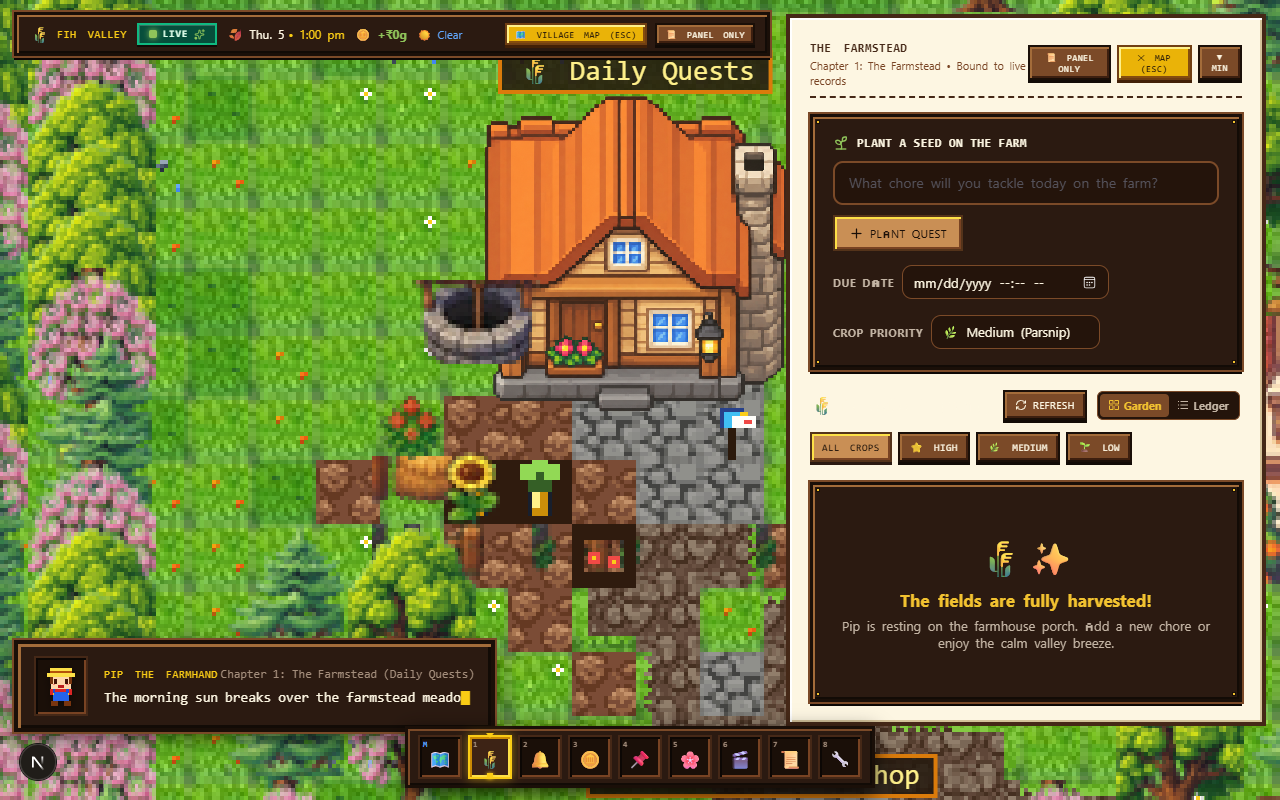
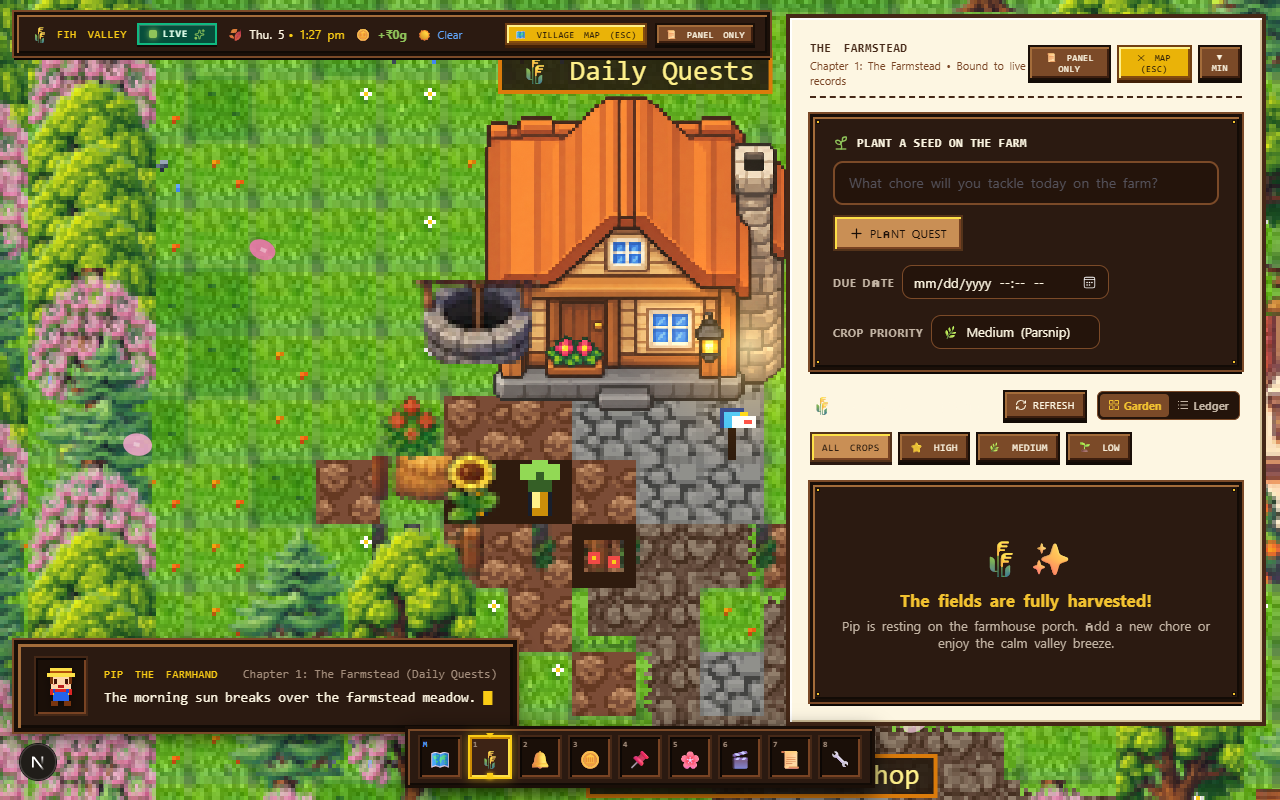
feat(world): add water ripples, caustics, lily pads, fireflies, lantern glow, and falling petals

diff --git a/components/world/PixelWorldCanvas.jsx b/components/world/PixelWorldCanvas.jsx
@@ -779,6 +779,10 @@ export default function PixelWorldCanvas({
       stone_well: null,
       farm_cart: null,
       haystack: null,
+      lilypad: null,
+      lilypad_flower: null,
+      cattails: null,
+      water_caustics: null,
     },
     loaded: false,
     camera: { x: 32 * 16, y: 33 * 16 }, // Center at Central Plaza Fountain on spawn
@@ -796,6 +800,50 @@ export default function PixelWorldCanvas({
     bellSwing: 0,
     fountainFrame: 0,
     isOverworldMode: !activeTab || activeTab === 'map',
+    fireflies: Array.from({ length: 24 }, (_, i) => {
+      let bx = 32 * 16, by = 42 * 16;
+      if (i < 8) {
+        // Archive Cellar ancient grove (tx: 8..16, ty: 29..36)
+        bx = (9 + (i % 4) * 2) * 16 + (Math.random() - 0.5) * 16;
+        by = (30 + Math.floor(i / 4) * 3) * 16 + (Math.random() - 0.5) * 16;
+      } else if (i < 16) {
+        // Woodland Pond & Reeds (tx: 28..36, ty: 39..45)
+        bx = (29 + (i % 4) * 2) * 16 + (Math.random() - 0.5) * 16;
+        by = (40 + Math.floor((i - 8) / 4) * 2) * 16 + (Math.random() - 0.5) * 16;
+      } else if (i < 20) {
+        // Bell Tower grove (tx: 29..35, ty: 8..14)
+        bx = (29 + (i - 16) * 2) * 16 + (Math.random() - 0.5) * 16;
+        by = (9 + ((i - 16) % 2) * 3) * 16 + (Math.random() - 0.5) * 16;
+      } else {
+        // Cinema Forest (tx: 44..52, ty: 45..52)
+        bx = (45 + (i - 20) * 2) * 16 + (Math.random() - 0.5) * 16;
+        by = (46 + ((i - 20) % 2) * 3) * 16 + (Math.random() - 0.5) * 16;
+      }
+      return {
+        x: bx,
+        y: by,
+        baseX: bx,
+        baseY: by,
+        phase: Math.random() * Math.PI * 2,
+        pulsePhase: Math.random() * Math.PI * 2,
+      };
+    }),
+    petals: Array.from({ length: 32 }, (_, i) => {
+      const colors = ['#fbcfe8', '#f472b6', '#fda4af', '#f9a8d4', '#fef08a'];
+      return {
+        x: Math.random() * (64 * 16),
+        y: Math.random() * (64 * 16),
+        speedX: Math.random() * 0.5 + 0.5,
+        speedY: Math.random() * 0.6 + 0.6,
+        swayPhase: Math.random() * Math.PI * 2,
+        angle: Math.random() * Math.PI * 2,
+        rotSpeed: (Math.random() - 0.5) * 0.06,
+        color: colors[i % colors.length],
+        rx: Math.random() * 1.5 + 3.2,
+        ry: Math.random() * 1 + 1.8,
+        alpha: Math.random() * 0.25 + 0.65,
+      };
+    }),
   });
 
   // 1. Load 16-bit sprite sheets
@@ -846,6 +894,10 @@ export default function PixelWorldCanvas({
       { key: 'stone_well', src: '/assets/props/stone_well.png' },
       { key: 'farm_cart', src: '/assets/props/farm_cart.png' },
       { key: 'haystack', src: '/assets/props/haystack.png' },
+      { key: 'lilypad', src: '/assets/props/lilypad.png' },
+      { key: 'lilypad_flower', src: '/assets/props/lilypad_flower.png' },
+      { key: 'cattails', src: '/assets/props/cattails.png' },
+      { key: 'water_caustics', src: '/assets/props/water_caustics.png' },
     ];
 
     let count = 0;
@@ -1051,10 +1103,10 @@ export default function PixelWorldCanvas({
       lastTime = currentTime;
       tickCounter++;
 
-      // Cycle animation frames (~10fps for sprite walk & water shimmer)
+      // Cycle animation frames (~10fps for sprite walk & water caustics shimmer)
       if (tickCounter % 6 === 0) {
         state.animFrame++;
-        state.waterFrame = (state.waterFrame + 1) % 2;
+        state.waterFrame = (state.waterFrame + 1) % 4;
         state.fountainFrame = (state.fountainFrame + 1) % 2;
         state.bellSwing = Math.sin(state.animFrame * 0.4) * 0.15;
 
@@ -1205,6 +1257,11 @@ export default function PixelWorldCanvas({
       const offsetY = Math.floor(viewH / 2 - cam.y);
       ctx.translate(offsetX, offsetY);
 
+      const camMinX = cam.x - viewW / 2 - 64;
+      const camMaxX = cam.x + viewW / 2 + 64;
+      const camMinY = cam.y - viewH / 2 - 64;
+      const camMaxY = cam.y + viewH / 2 + 64;
+
       const tileset = state.images.tileset;
 
       // ── Layer 1: Ground Tiles (Grass, Continuous Dirt Paths, Cobblestone Aprons, Pond, Tilled Soil) ──
@@ -1221,7 +1278,12 @@ export default function PixelWorldCanvas({
           // Woodland Pond (tx: 30..34, ty: 40..43, excluding footbridge at tx: 32)
           const isPondWater = tx >= 30 && tx <= 34 && ty >= 40 && ty <= 43 && tx !== 32;
           if (isPondWater) {
-            ctx.drawImage(tileset, state.waterFrame * TILE_SIZE, 1 * TILE_SIZE, TILE_SIZE, TILE_SIZE, wx, wy, TILE_SIZE, TILE_SIZE);
+            const causticsImg = state.images.water_caustics;
+            if (causticsImg) {
+              ctx.drawImage(causticsImg, (state.waterFrame % 4) * TILE_SIZE, 0, TILE_SIZE, TILE_SIZE, wx, wy, TILE_SIZE, TILE_SIZE);
+            } else {
+              ctx.drawImage(tileset, (state.waterFrame % 2) * TILE_SIZE, 1 * TILE_SIZE, TILE_SIZE, TILE_SIZE, wx, wy, TILE_SIZE, TILE_SIZE);
+            }
             continue;
           }
 
@@ -1244,6 +1306,29 @@ export default function PixelWorldCanvas({
           ctx.drawImage(tileset, gTile.col * TILE_SIZE, gTile.row * TILE_SIZE, TILE_SIZE, TILE_SIZE, wx, wy, TILE_SIZE, TILE_SIZE);
         }
       }
+
+      // ── Layer 1b: Dynamic Concentric Water Ripples ──
+      const rippleCenters = [
+        { x: 30.8 * TILE_SIZE, y: 41.3 * TILE_SIZE, phase: 0 },
+        { x: 33.4 * TILE_SIZE, y: 42.1 * TILE_SIZE, phase: 0.3 },
+        { x: 31.4 * TILE_SIZE, y: 42.8 * TILE_SIZE, phase: 0.6 },
+        { x: 33.6 * TILE_SIZE, y: 40.7 * TILE_SIZE, phase: 0.85 },
+        { x: 32.0 * TILE_SIZE, y: 31.2 * TILE_SIZE, phase: 0.45 }, // Central fountain basin
+      ];
+      rippleCenters.forEach((rc) => {
+        if (viewW < 1000 && (rc.x < camMinX || rc.x > camMaxX || rc.y < camMinY || rc.y > camMaxY)) return;
+        const progress = ((state.animFrame * 0.025 + rc.phase) % 1);
+        const rX = 2 + progress * 8;
+        const rY = rX * 0.5;
+        const alpha = (1 - progress) * 0.6;
+        ctx.save();
+        ctx.strokeStyle = `rgba(186, 245, 255, ${alpha.toFixed(3)})`;
+        ctx.lineWidth = 1;
+        ctx.beginPath();
+        ctx.ellipse(rc.x, rc.y, rX, rY, 0, 0, Math.PI * 2);
+        ctx.stroke();
+        ctx.restore();
+      });
 
       // ── Layer 2: Decorative Fences, Rails & Wooden Footbridge ──
       // 1. Upgraded Wooden Footbridge across Woodland Pond (tx: 31..33, ty: 40..43)
@@ -1298,11 +1383,6 @@ export default function PixelWorldCanvas({
 
       // ── Layer 3: Depth-Sorted Entities (Buildings, Props, Characters, Trees) ──
       const renderables = [];
-
-      const camMinX = cam.x - viewW / 2 - 64;
-      const camMaxX = cam.x + viewW / 2 + 64;
-      const camMinY = cam.y - viewH / 2 - 64;
-      const camMaxY = cam.y + viewH / 2 + 64;
 
       // ── 1. Chapter 1: The Farmstead (New Custom House) ──
       renderables.push({
@@ -1625,6 +1705,44 @@ export default function PixelWorldCanvas({
         },
       });
 
+      // ── Floating Bobbing Lily Pads on Woodland Pond ──
+      const lilyPads = [
+        { x: 30.6 * TILE_SIZE, y: 41.2 * TILE_SIZE, type: 'plain', phase: 0 },
+        { x: 33.3 * TILE_SIZE, y: 42.2 * TILE_SIZE, type: 'flower', phase: 1.8 },
+        { x: 31.2 * TILE_SIZE, y: 42.7 * TILE_SIZE, type: 'plain', phase: 3.2 },
+      ];
+      lilyPads.forEach((lp) => {
+        if (viewW < 1000 && (lp.x < camMinX || lp.x > camMaxX || lp.y < camMinY || lp.y > camMaxY)) return;
+        renderables.push({
+          y: lp.y + 12,
+          render: () => {
+            const bobY = lp.y + Math.sin(state.animFrame * 0.08 + lp.phase) * 1.5;
+            const img = lp.type === 'flower' ? state.images.lilypad_flower : state.images.lilypad;
+            if (img) {
+              ctx.drawImage(img, lp.x, bobY, 18, 18);
+            }
+          },
+        });
+      });
+
+      // ── Shoreline Cattails / Water Reeds ──
+      const waterReeds = [
+        { x: 29.5 * TILE_SIZE, y: 42.0 * TILE_SIZE },
+        { x: 34.2 * TILE_SIZE, y: 40.2 * TILE_SIZE },
+      ];
+      waterReeds.forEach((wr) => {
+        if (viewW < 1000 && (wr.x < camMinX || wr.x > camMaxX || wr.y < camMinY || wr.y > camMaxY)) return;
+        renderables.push({
+          y: wr.y + 24,
+          render: () => {
+            const img = state.images.cattails;
+            if (img) {
+              ctx.drawImage(img, wr.x, wr.y, 20, 28);
+            }
+          },
+        });
+      });
+
       // ── 11a. Central Plaza & Landmark Wooden Benches ──
       const plazaBenches = [
         // Central Plaza fountain benches
@@ -1650,8 +1768,6 @@ export default function PixelWorldCanvas({
 
       // ── 11b. Rustic Woodland Log Benches ──
       const logBenches = [
-        // Scenic Woodland Pond Overlook
-        { x: 29, y: 41 }, { x: 35, y: 41 },
         // Northern Forest Trail Rest
         { x: 24, y: 20 }, { x: 40, y: 20 },
       ];
@@ -1660,7 +1776,7 @@ export default function PixelWorldCanvas({
         renderables.push({
           y: (lb.y + 1) * TILE_SIZE,
           render: () => {
-            const lbImg = state.images.bench_log || state.images.bench_wood;
+            const lbImg = state.images.bench_wood;
             if (lbImg) {
               ctx.drawImage(lbImg, lb.x * TILE_SIZE - 5, lb.y * TILE_SIZE, 26, 14);
             }
@@ -1930,7 +2046,101 @@ export default function PixelWorldCanvas({
       renderables.sort((a, b) => a.y - b.y);
       renderables.forEach((item) => item.render());
 
-      // ── Layer 4: Floating Building Signposts & Hover Highlights ──
+      // ── Layer 4a: Ambient Lantern Radial Halos & Flame Flicker ──
+      ctx.save();
+      ctx.globalCompositeOperation = 'lighter';
+      const allLanternLights = [
+        // Street Timber Bracket Post Lanterns
+        ...streetLanterns.map((l) => ({ x: l.x * TILE_SIZE + 13, y: l.y * TILE_SIZE + 2, radius: 34 })),
+        // Portable Oil Lanterns
+        ...oilLanterns.map((l) => ({ x: l.x * TILE_SIZE + 7, y: l.y * TILE_SIZE + 6, radius: 24 })),
+        // Porch & Doorway Lanterns
+        { x: 14 * TILE_SIZE + 28, y: 13 * TILE_SIZE + 4, radius: 30 }, // Farmhouse porch
+        { x: 50 * TILE_SIZE + 18, y: 12 * TILE_SIZE + 10, radius: 32 }, // Bank door
+      ];
+
+      allLanternLights.forEach((ll, lIdx) => {
+        if (viewW < 1000 && (ll.x < camMinX - 32 || ll.x > camMaxX + 32 || ll.y < camMinY - 32 || ll.y > camMaxY + 32)) return;
+        const flicker = Math.sin(state.animFrame * 0.2 + lIdx * 2.1) * 0.08 + Math.cos(state.animFrame * 0.35 + lIdx * 1.3) * 0.04;
+        const r = ll.radius * (1 + flicker);
+        const grad = ctx.createRadialGradient(ll.x, ll.y, 1, ll.x, ll.y, r);
+        grad.addColorStop(0, `rgba(254, 240, 138, ${(0.40 + flicker * 0.22).toFixed(3)})`);
+        grad.addColorStop(0.35, `rgba(245, 158, 11, 0.15)`);
+        grad.addColorStop(0.7, `rgba(217, 119, 6, 0.05)`);
+        grad.addColorStop(1, 'rgba(180, 83, 9, 0)');
+
+        ctx.fillStyle = grad;
+        ctx.beginPath();
+        ctx.arc(ll.x, ll.y, r, 0, Math.PI * 2);
+        ctx.fill();
+      });
+      ctx.restore();
+
+      // ── Layer 4b: Bioluminescent Woodland Fireflies ──
+      state.fireflies.forEach((f) => {
+        f.x = f.baseX + Math.sin(f.phase + state.animFrame * 0.05) * 14;
+        f.y = f.baseY + Math.cos(f.phase * 1.4 + state.animFrame * 0.04) * 10;
+        if (viewW < 1000 && (f.x < camMinX || f.x > camMaxX || f.y < camMinY || f.y > camMaxY)) return;
+
+        const pulse = (Math.sin(state.animFrame * 0.12 + f.pulsePhase) + 1) / 2;
+        const alpha = 0.25 + pulse * 0.65;
+
+        ctx.save();
+        const grad = ctx.createRadialGradient(f.x, f.y, 0.5, f.x, f.y, 6);
+        grad.addColorStop(0, `rgba(254, 240, 138, ${alpha.toFixed(3)})`);
+        grad.addColorStop(0.4, `rgba(134, 239, 172, ${(alpha * 0.6).toFixed(3)})`);
+        grad.addColorStop(1, 'rgba(134, 239, 172, 0)');
+        ctx.fillStyle = grad;
+        ctx.beginPath();
+        ctx.arc(f.x, f.y, 6, 0, Math.PI * 2);
+        ctx.fill();
+
+        ctx.fillStyle = '#fef08a';
+        ctx.fillRect(Math.floor(f.x), Math.floor(f.y), 1.5, 1.5);
+        ctx.restore();
+      });
+
+      // ── Layer 4c: Falling Cherry Blossom Petals & Autumn Breeze ──
+      state.petals.forEach((p) => {
+        p.x += p.speedX + Math.sin(p.swayPhase + state.animFrame * 0.05) * 0.8;
+        p.y += p.speedY;
+        p.angle += p.rotSpeed;
+
+        if (viewW < 1000) {
+          if (p.y > camMaxY + 20) { p.y = camMinY - 20; p.x = camMinX + Math.random() * (viewW + 60) - 30; }
+          if (p.x > camMaxX + 20) { p.x = camMinX - 20; }
+        } else {
+          if (p.y > 64 * TILE_SIZE + 20) { p.y = -20; p.x = Math.random() * 64 * TILE_SIZE; }
+          if (p.x > 64 * TILE_SIZE + 20) { p.x = -20; }
+        }
+
+        if (viewW < 1000 && (p.x < camMinX || p.x > camMaxX || p.y < camMinY || p.y > camMaxY)) return;
+
+        ctx.save();
+        ctx.translate(p.x, p.y);
+        ctx.rotate(p.angle);
+        ctx.globalAlpha = p.alpha;
+
+        // Shadow under petal
+        ctx.fillStyle = 'rgba(20, 30, 20, 0.22)';
+        ctx.beginPath();
+        ctx.ellipse(0.5, 1, p.rx, p.ry * 0.7, 0, 0, Math.PI * 2);
+        ctx.fill();
+
+        // Petal body
+        ctx.fillStyle = p.color;
+        ctx.beginPath();
+        ctx.ellipse(0, 0, p.rx, p.ry, 0, 0, Math.PI * 2);
+        ctx.fill();
+
+        // Petal highlight tip
+        ctx.fillStyle = '#ffffff';
+        ctx.globalAlpha = p.alpha * 0.45;
+        ctx.fillRect(-1, -0.5, 1.5, 1);
+        ctx.restore();
+      });
+
+      // ── Layer 4d: Floating Building Signposts & Hover Highlights ──
       BUILDING_HITBOXES.forEach((b) => {
         const isHovered = state.hoverBuilding?.id === b.id;
         const bx = b.bannerX;

diff --git a/public/assets/ATLAS.md b/public/assets/ATLAS.md
@@ -233,3 +233,14 @@ Dedicated 16-bit RPG woodland vegetation and environmental clutter sprites desig
 | **Wooden Farm Cart** | `farm_cart.png` | 36×26 px | Farmstead field (`17, 12.5`) | Two-wheeled wooden farm cart with side slat panels, timber spoke wheels, and front pull handles. |
 | **Golden Haystack** | `haystack.png` | 20×22 px | Farmstead crops (`10, 15`) | Domed golden straw hay bale with rustic pitchfork accent. |
 | **Ancient Oak Tree Stump** | `tree_stump.png` | 22×20 px | Woodland clearings | Weathered tree stump with prominent annular growth rings, bark ridges, and root flares. |
+
+### Atmospheric Effects & Water Animation Registry (Extracted & Animated):
+| Asset / Effect | File / System | Dimensions | Placement / Behavior | Description |
+|:---|:---|:---|:---|:---|
+| **Water Caustics** | `water_caustics.png` | 64×16 px (4 frames of 16×16) | `tx: 30..34, ty: 40..43` | 4-frame animated crystal water caustic shimmer reflecting sunlight across the Woodland Pond. |
+| **Concentric Water Ripples** | Procedural Canvas VFX | Expanding oval rings (r: 2..10 px) | Pond surface & Central Fountain basin | Periodic gentle elliptical water ripple rings expanding outward and fading smoothly (`rgba(186, 245, 255, alpha)`). |
+| **Floating Lily Pads** | `lilypad.png` / `lilypad_flower.png` | 18×18 px | Woodland Pond (`30.6, 41.2` & `33.3, 42.2`) | Round notched green lily pads with vein detailing and pink lotus blossom, gently bobbing with water currents (`sin(animFrame)`). |
+| **Shoreline Cattails** | `cattails.png` | 20×28 px | Pond shoreline banks (`29.5, 42.0` & `34.2, 40.2`) | Dense cluster of green water reeds topped with velvety brown cylindrical cattail spikes and base water ripples. |
+| **Lantern Glow & Flame Flicker** | Dynamic Radial Lighting Pass | Radius: 24..38 px | All 12 lanterns + doorways | Multi-stop radial gradients (`rgba(254, 240, 138)` -> `rgba(245, 158, 11)`) with organic flame flicker physics illuminating ground, paths, and characters via additive blending. |
+| **Woodland Fireflies** | Bioluminescent Particle Pool | 24 motes, radius: 5..8 px | Archive grove, Pond, Bell Tower & Cinema | Drifting bioluminescent fireflies with figure-8 wandering physics and soft pulsing golden-green radiance. |
+| **Falling Petals & Leaves** | Viewport Particle System | 32 tumbling petals, 4×2.5 px | Overworld breeze | Fluttering cherry blossom petals (`#fbcfe8`, `#f472b6`, `#fda4af`) and golden leaf motes swaying horizontally with tumbling rotation. |
